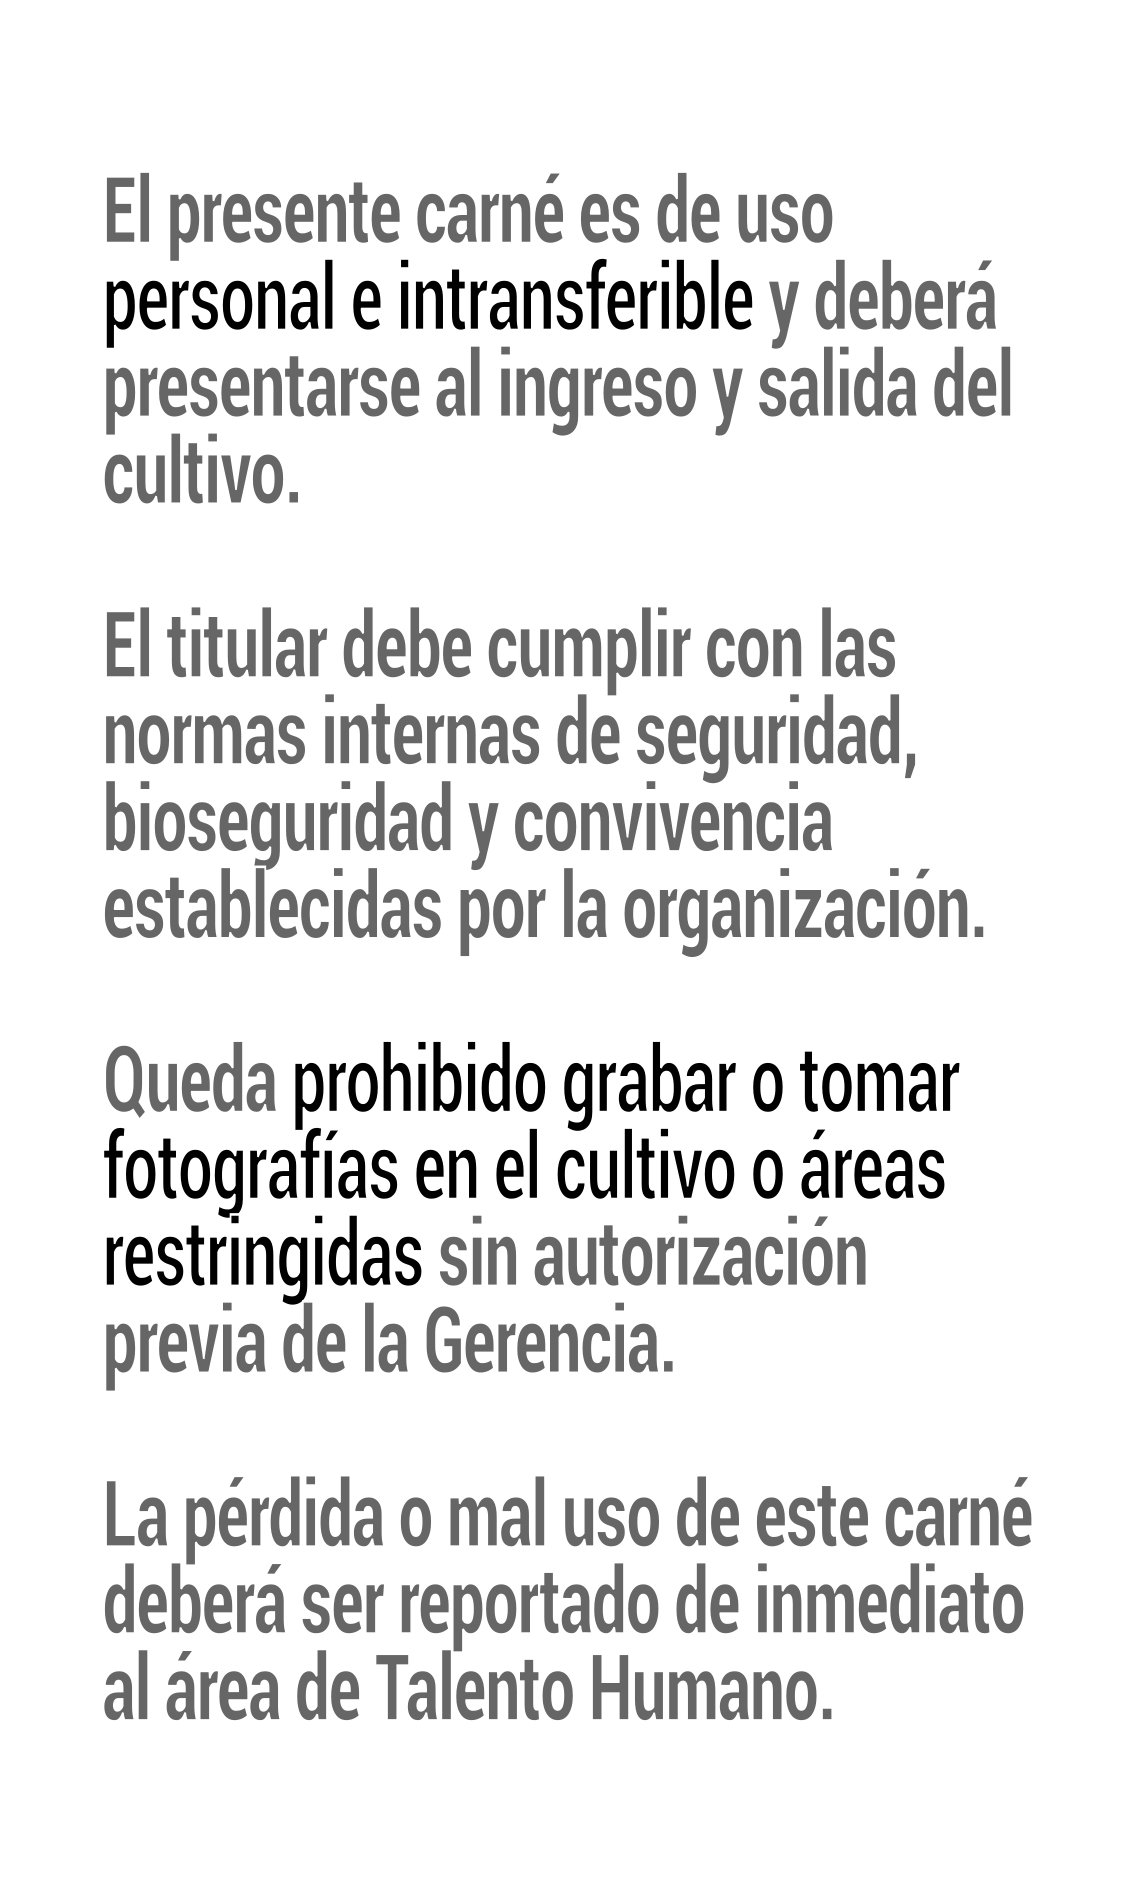
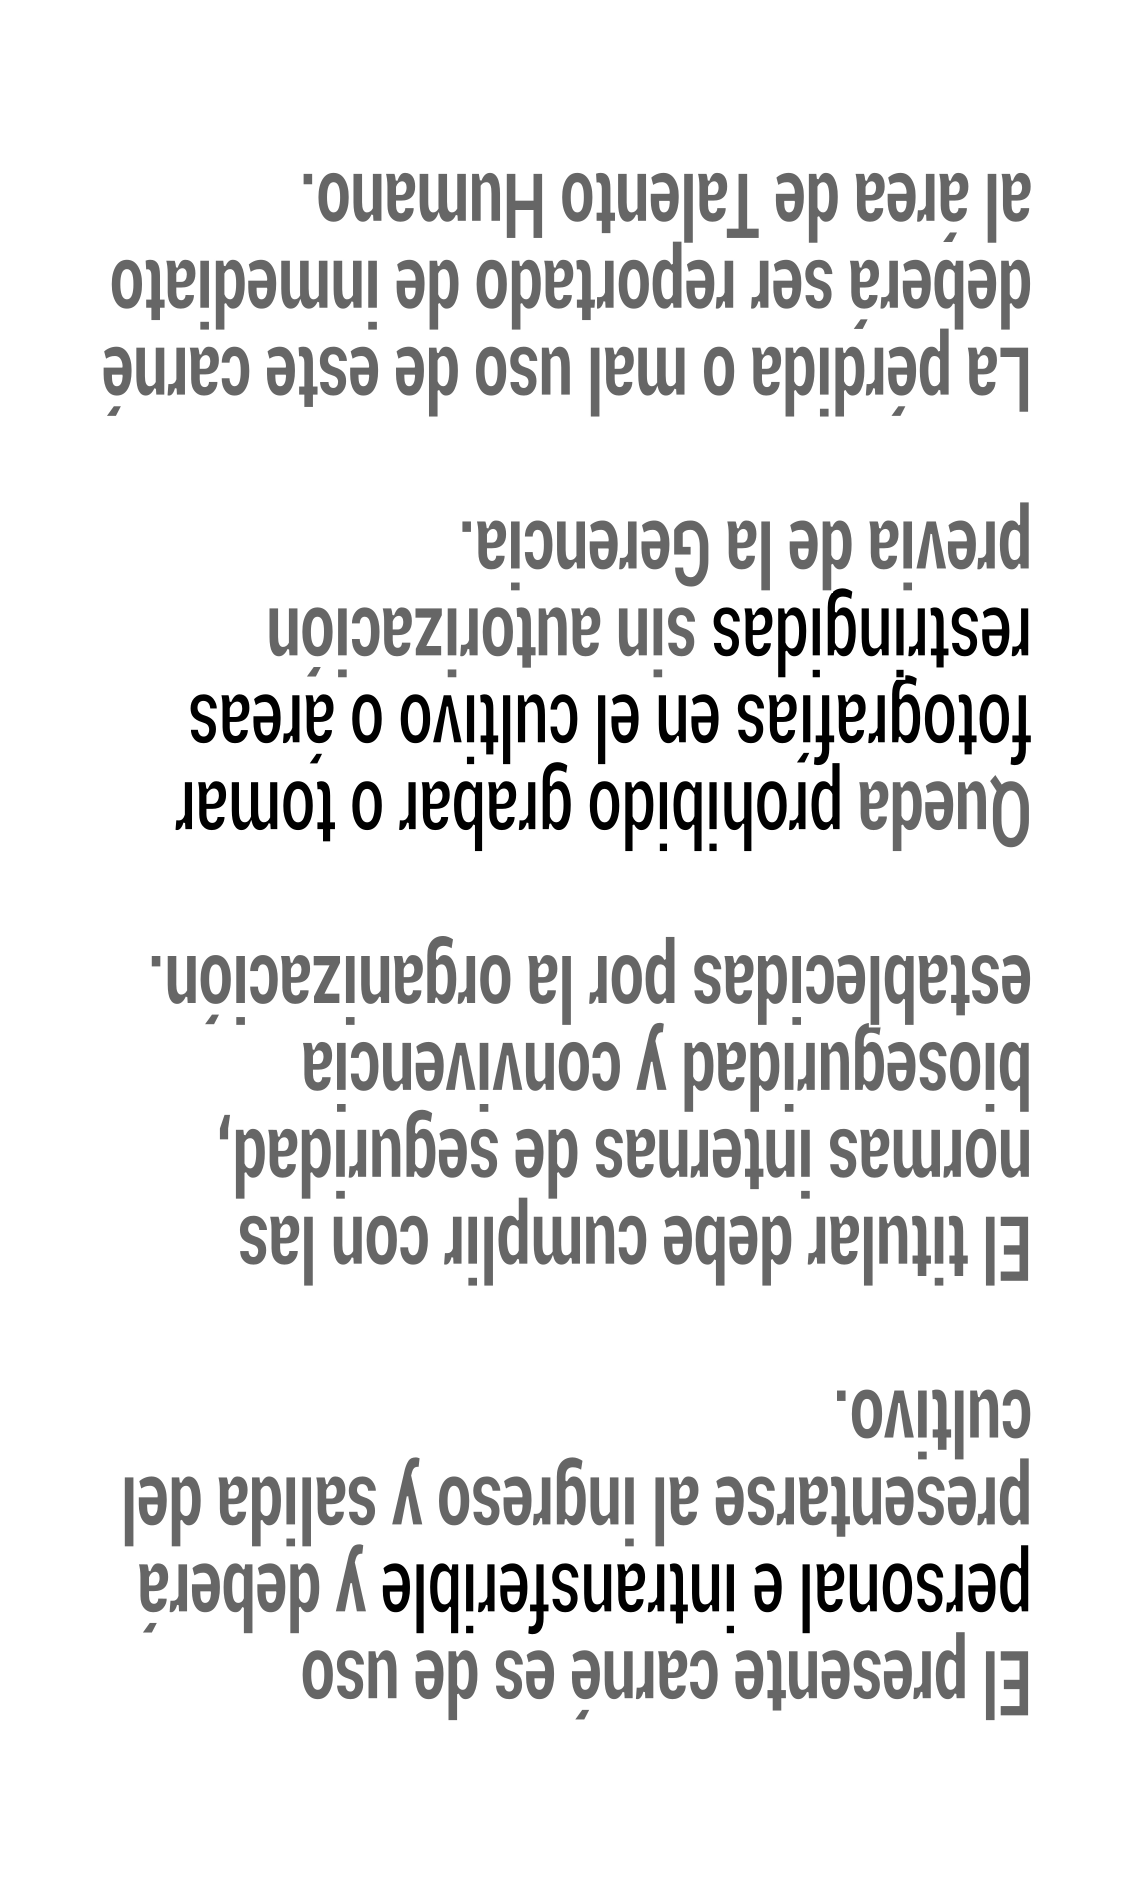
actualizacion 09-12-2025

Changed region(s): [[0.0925, 0.2493, 0.9251, 0.935], [0.0925, 0.0935, 0.9251, 0.2805]]

diff --git a/tarjetasEmpleados.html b/tarjetasEmpleados.html
@@ -13,14 +13,14 @@ main{
     flex-direction: column;
     justify-content: center;
     align-items: center;
-    gap: 1px;
+    gap: 5px;
     width: 305px;
-    height: 1100px;
+    height: 1180px;
 
 }
 .carnet {
     width: 300px; /* Ancho típico para un carnet en pantalla */
-    height: 590px; /* Alto ajustado al diseño */
+    height: 580px; /* Alto ajustado al diseño */
     margin: 20px;
     background-color: #fff;
     border-radius: 15px; /* Bordes redondeados sutiles */
@@ -66,10 +66,11 @@ main{
     z-index: 10; /* Asegura que esté sobre la franja */
 }
 #QR{
+    display: block;
     width: 120px;
     height: 120px;
     border-radius: 5px;
-    margin-top: 10px;
+    margin: 5px auto;
 }
 .logo {
     width: 80px; /* Tamaño aproximado del logo */
@@ -159,14 +160,13 @@ main{
 }
 .reverse {
     width: 300px;
-    height: 500px; /* Ancho típico para un carnet en pantalla */
+    height: 580px; /* Ancho típico para un carnet en pantalla */
     background-color: #e9e9e9;
     border-radius: 10px;
 }
 .reverse img{
         width: 300px;
-        height: 500px;
-        transform: scaley(-1);
+        height: 580px;
     }
     </style>
 
@@ -188,7 +188,7 @@ main{
                 <h2 class="nombre">{{Apellidos}} {{Nombres}}</h2>
                 <!-- <p class="cargo">DIRECCION OPERACIONES Y CALIDAD</p> -->
                 <p class="rh">CC. {{Cédula}}</p>
-                <!-- <p class="rh">RH {{RH}}</p> -->
+                <p class="rh">RH {{RH}}</p>
                 <p class="rh">Locker {{Locker}}</p>
                 <p class="rh">P: {{Parqueadero}}</p>
                 {% if Empresa != "Turflor" %}

diff --git a/tarjetasProvisional.html b/tarjetasProvisional.html
@@ -99,7 +99,7 @@ body {
     <div class="tarjeta-empleado">
         <div class="header">
             <!-- <h3>{{Apellidos}} </h3> -->
-            <h3>{{nombre}} </h3>
+            <h3>{{Nombres}} </h3>
             <!-- <h4> {{Cédula}}</h4> -->
             <!-- <h2>{{Área}} {{CentroDeCostos}}</h2> -->
         </div>
@@ -112,7 +112,7 @@ body {
                 </p>
             </div> -->
             <div class="foto">
-                <img src="{{CodigoQR}}" alt="QR de {{cedula}}">
+                <img src="{{CódigoQR}}" alt="QR de {{Cédula}}">
             </div>
         </div>
     </div>

diff --git a/unificarcsv.py b/unificarcsv.py
@@ -1,0 +1,81 @@
+import pandas as pd
+import glob
+import os
+
+def unificar_csv(directorio_archivos, nombre_archivo_salida):
+    """
+    Lee todos los archivos CSV en un directorio, los concatena en un solo
+    DataFrame y lo guarda como un nuevo archivo CSV.
+
+    Args:
+        directorio_archivos (str): La ruta al directorio que contiene los archivos CSV.
+        nombre_archivo_salida (str): El nombre del archivo CSV unificado de salida.
+    """
+    # 1. Encontrar todos los archivos CSV
+    # Se utiliza glob.glob para encontrar todas las rutas que terminan en '.csv'
+    ruta_busqueda = os.path.join(directorio_archivos, '*.csv')
+    rutas_csv = glob.glob(ruta_busqueda)
+
+    if not rutas_csv:
+        print(f"❌ No se encontraron archivos CSV en el directorio: {directorio_archivos}")
+        return
+
+    print(f"✅ Se encontraron {len(rutas_csv)} archivos CSV para unificar.")
+
+    # Lista para almacenar los DataFrames de cada archivo
+    lista_dataframes = []
+
+    # 2. Leer y almacenar cada archivo CSV
+    for ruta in rutas_csv:
+        try:
+            # pd.read_csv lee el archivo
+            # sep=',' es el valor por defecto, pero se incluye por claridad
+            # encoding='utf-8' es un buen estándar, puedes cambiarlo si tus archivos usan otro
+            df = pd.read_csv(ruta, sep=',', encoding='utf-8')
+            lista_dataframes.append(df)
+            print(f"   - Leído correctamente: {os.path.basename(ruta)}")
+        except Exception as e:
+            print(f"⚠ Error al leer el archivo {os.path.basename(ruta)}: {e}")
+
+    # 3. Concatenar todos los DataFrames
+    # La función pd.concat() une los DataFrames.
+    # El argumento 'ignore_index=True' restablece el índice de las filas unificadas.
+    # MUY IMPORTANTE: La función 'concat' maneja automáticamente las columnas diferentes.
+    # Si un archivo tiene una columna adicional, esa columna se crea en el DataFrame final,
+    # y en los registros de los archivos que no la tienen, se llena con el valor **NaN**
+    # (Not a Number, el valor de "valor faltante" de pandas).
+    try:
+        df_unificado = pd.concat(lista_dataframes, ignore_index=True)
+        print("---")
+        print("✅ DataFrames concatenados exitosamente.")
+        print(f"Dimensiones del DataFrame final: {df_unificado.shape}")
+
+    except Exception as e:
+        print(f"❌ Error al concatenar los DataFrames: {e}")
+        return
+
+    # 4. Guardar el DataFrame unificado en un nuevo archivo CSV
+    try:
+        # index=False evita escribir los números de índice de pandas como una columna extra en el CSV.
+        ruta_salida = os.path.join(directorio_archivos, nombre_archivo_salida)
+        df_unificado.to_csv(ruta_salida, index=False, encoding='utf-8')
+        print("---")
+        print(f"🎉 Proceso finalizado. El archivo unificado se guardó en: **{ruta_salida}**")
+        print("---")
+    except Exception as e:
+        print(f"❌ Error al guardar el archivo de salida: {e}")
+
+
+# --- CONFIGURACIÓN Y EJECUCIÓN ---
+# ⚠ ADAPTA ESTAS DOS LÍNEAS ⚠
+directorio_csv = './csv carnets' # Cambia esto por la ruta de tu carpeta
+archivo_salida = 'datos_unificados.csv'
+
+# Crea el directorio si no existe (opcional, para prueba)
+if not os.path.exists(directorio_csv):
+    os.makedirs(directorio_csv)
+    print(f"Se ha creado el directorio para colocar tus CSV: {directorio_csv}")
+    print("Por favor, coloca tus archivos CSV dentro de esta carpeta y vuelve a ejecutar el script.")
+else:
+    # Llamada a la función principal
+    unificar_csv(directorio_csv, archivo_salida)

diff --git a/cardgenerator.py b/cardgenerator.py
@@ -39,7 +39,7 @@ hti = Html2Image(
 )
 # Configuración
 csv_path = 'novedades.csv'
-template_path = 'tarjetasEmpleados.html'
+template_path = 'tarjetasprovisional.html'
 output_folder = './tarjetas/'
 os.makedirs(output_folder, exist_ok=True)
 
@@ -79,12 +79,12 @@ def generar_imagen_segura(hti, html_content, output_filename):
 # Procesar cada empleado y generar imágenes
 for _, empleado in df.iterrows():
     html_output = template.render(**empleado.to_dict())
-    output_image = f"{empleado['cedula']}{empleado['nombre']}.png"
+    output_image = f"{empleado['Cédula']}{empleado['Nombres']}.png"
     
     if generar_imagen_segura(hti, html_output, output_image):
         print(f"Imagen generada: {output_image}")
     else:
-        print(f"Falló generación para empleado {empleado['Cedula']}")
+        print(f"Falló generación para empleado {empleado['Cédula']}")
 
 # Finalizar
 import cropcards
